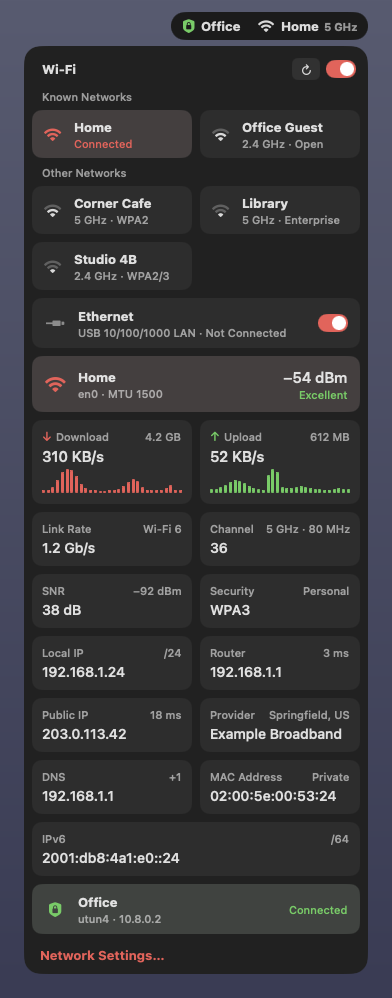
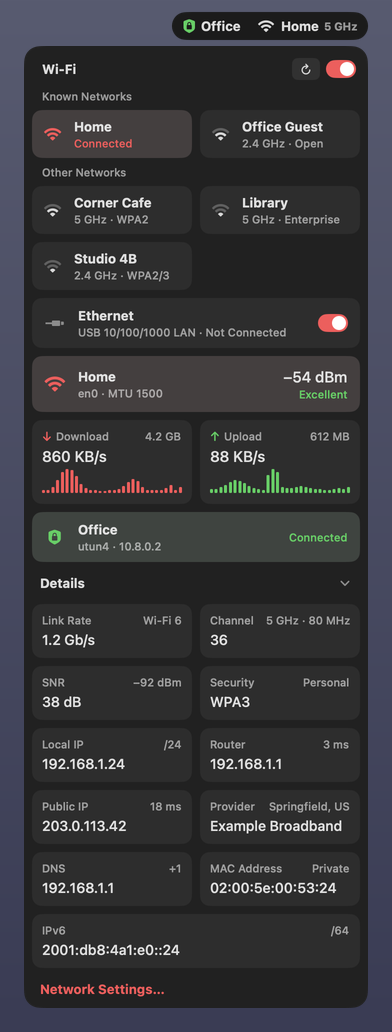
feat: the network details behind a disclosure, also for Lua
The network popup was one long column of tiles. The connection, the
traffic graphs and the VPN stay in sight; under them a Details row,
closed until clicked, holds the Wi-Fi link (rate, channel,
signal-to-noise, security) and the addresses (local and public IP,
router, provider, DNS, MAC address, IPv6). Once open it stays open, in
the next popups too, until a reload. The VPN now comes before it.

The ping to the router and the curl to ipinfo.io only feed the tiles
under it: the ping runs while the details are open, the curl once in
each popup they're open in. A popup with them closed runs no process.

Rx::disclosure is that row as a component: a title with a chevron that
points down while open, and the children under it then; the widget
keeps the flag and flips it on the action. Lua widgets get the same as
rb.ui.disclosure { "Title", open = ..., on_click = ..., children }.

The README screenshot of the network popup shows the details open.

Tried on the test bar with made-up data, in Italian and English:
closed, open, closed again, still open in the next popup, and the Lua
component opened and closed.

diff --git a/src/widgets/network.rs b/src/widgets/network.rs
@@ -10,18 +10,20 @@
 //!   Good from −67, Fair from −75, else Weak), on Ethernet the link speed.
 //! - Download and upload: the speed now, the last 30 seconds as bars, and the total of the
 //!   interface since it came up.
-//! - On Wi-Fi: the link rate with the Wi-Fi generation, the channel with band and width, the
-//!   signal-to-noise ratio with the noise, the security.
-//! - Local IP (with the prefix), router (with its ping), public IP (with the latency to the
-//!   internet), provider (with city and country), DNS, MAC address (private or not) and IPv6; a
-//!   click copies an address, and the tile says Copied.
 //! - The VPN, with its interface and address.
+//! - Details, closed until clicked (and then kept open until a reload):
+//!   - On Wi-Fi: the link rate with the Wi-Fi generation, the channel with band and width, the
+//!     signal-to-noise ratio with the noise, the security.
+//!   - Local IP (with the prefix), router (with its ping), public IP (with the latency to the
+//!     internet), provider (with city and country), DNS, MAC address (private or not) and IPv6;
+//!     a click copies an address, and the tile says Copied.
 //!
 //! The state comes from the System Configuration store, which tells when it changes, and from
 //! CoreWLAN. Only while the popup is open, and in-process: every second the counters of the
-//! interface (the routing sysctl) and the Wi-Fi link (CoreWLAN), every 5 seconds a ping to the
-//! router (ICMP, without privileges). The public IP, its provider and the latency to the internet
-//! (the TCP handshake of that request) come from one `curl` to ipinfo.io when the popup opens.
+//! interface (the routing sysctl) and the Wi-Fi link (CoreWLAN, for the signal too), and while the
+//! details are open every 5 seconds a ping to the router (ICMP, without privileges). The public
+//! IP, its provider and the latency to the internet (the TCP handshake of that request) come from
+//! one `curl` to ipinfo.io when the details are first open in a popup.
 //! The network name comes from the last scan record the store keeps, as macOS gives it to CoreWLAN
 //! only with the Location permission, which the list of nearby networks needs: RustyBar asks for
 //! it the first time the popup opens.
@@ -58,6 +60,8 @@ const STAT: f64 = 54.0;
 /// The VPN and the wired services.
 const LINE: f64 = 50.0;
 const NEARBY: f64 = 48.0;
+/// The row that opens the details.
+const DISCLOSURE: f64 = 26.0;
 /// Seconds of traffic in the graphs, a bar each.
 const BARS: usize = 30;
 const GRAPH: f64 = 24.0;
@@ -226,6 +230,10 @@ pub struct Network {
     /// The public side and the connection it's of.
     public: Option<(Public, String)>,
     fetching: bool,
+    /// The `ticking` of the popup it was last fetched in: once each, when the details are open.
+    fetched: u64,
+    /// The link and the addresses are shown.
+    details: bool,
     scanning: bool,
     /// The network being joined, and since when: one at a time, for at most 2 minutes.
     joining: Option<(String, f64)>,
@@ -394,6 +402,8 @@ impl Network {
             location: None,
             public: None,
             fetching: false,
+            fetched: 0,
+            details: false,
             scanning: false,
             joining: None,
             failed: None,
@@ -467,6 +477,7 @@ impl Network {
         if self.fetching {
             return;
         }
+        self.fetched = self.ticking;
         if let Some(mock) = &self.mock {
             self.public = Some((mock.public.clone(), mock.state.key()));
             return;
@@ -481,7 +492,8 @@ impl Network {
         });
     }
 
-    /// Every second while the popup is open: the speeds and the Wi-Fi link; every 5, the ping.
+    /// Every second while the popup is open: the speeds and the Wi-Fi link; every 5, the ping, while
+    /// the details are open.
     fn tick(&mut self, ticking: u64, cx: &mut Cx) {
         if ticking != self.ticking || !cx.popup_open {
             return;
@@ -502,7 +514,7 @@ impl Network {
             next(cx);
             return;
         };
-        if self.ticks.is_multiple_of(5) {
+        if self.details && self.ticks.is_multiple_of(5) {
             self.ping_router(cx);
         }
         self.ticks += 1;
@@ -552,7 +564,8 @@ impl Network {
 
     fn ping_router(&mut self, cx: &mut Cx) {
         let Some(router) = self.state.as_ref().and_then(|s| s.router.clone()) else { return };
-        if self.pinging {
+        // The made-up router is pinged by no one: its time comes with the made-up data
+        if self.pinging || self.mock.is_some() {
             return;
         }
         self.pinging = true;
@@ -1012,25 +1025,12 @@ impl Widget for Network {
     fn popup(&self, rx: &Rx) -> Option<Node> {
         let th = rx.theme;
         let s = self.state.as_ref()?;
-        // The switches and the networks on top, the metrics under them
+        // The switches and the networks on top, the metrics under them, then the details
         let mut metrics = vec![self.header(rx, s)];
         let mut used = HEADER + GAP;
-        let grid = |tiles: Vec<Node>, key: &str, used: &mut f64| {
-            *used += tiles.len().div_ceil(2) as f64 * (STAT + GAP);
-            Node::row(tiles).columns(2).gap(GAP).key(key)
-        };
         if s.primary.is_some() {
             metrics.push(Node::row(vec![self.traffic(rx, true), self.traffic(rx, false)]).gap(GAP).key("traffic"));
             used += TRAFFIC + GAP;
-            if let Some(l) = self.link.as_ref().filter(|_| s.on_wifi()) {
-                metrics.push(grid(self.link_tiles(rx, l), "link", &mut used));
-            }
-            let (tiles, ipv6) = self.address_tiles(rx, s);
-            metrics.push(grid(tiles, "addresses", &mut used));
-            if let Some(ipv6) = ipv6 {
-                metrics.push(ipv6);
-                used += STAT + GAP;
-            }
         }
         if let Some(vpn) = &s.vpn {
             let detail = if self.copied.as_deref() == Some("vpn") {
@@ -1044,6 +1044,26 @@ impl Widget for Network {
             let room = crate::gfx::measure_text(connected, &th.small_font()).width;
             metrics.push(line(rx, "lock.shield.fill", th.green, vpn, detail, (state, room), true).click(rx.action("copy:vpn")).key("vpn"));
             used += LINE + GAP;
+        }
+        if s.primary.is_some() {
+            let grid = |tiles: Vec<Node>, key: &str, used: &mut f64| {
+                *used += tiles.len().div_ceil(2) as f64 * (STAT + GAP);
+                Node::row(tiles).columns(2).gap(GAP).key(key)
+            };
+            let mut details = Vec::new();
+            if self.details {
+                if let Some(l) = self.link.as_ref().filter(|_| s.on_wifi()) {
+                    details.push(grid(self.link_tiles(rx, l), "link", &mut used));
+                }
+                let (tiles, ipv6) = self.address_tiles(rx, s);
+                details.push(grid(tiles, "addresses", &mut used));
+                if let Some(ipv6) = ipv6 {
+                    details.push(ipv6);
+                    used += STAT + GAP;
+                }
+            }
+            metrics.push(rx.disclosure(t("Dettagli", "Details"), self.details, rx.action("details"), details).gap(GAP).key("details"));
+            used += DISCLOSURE + GAP;
         }
         let mut wired = Vec::new();
         for (i, w) in s.wired.iter().enumerate() {
@@ -1089,6 +1109,17 @@ impl Widget for Network {
                 self.scan(cx);
                 cx.redraw();
             }
+            "details" => {
+                self.details = !self.details;
+                // What only the details show: the public side once in each popup, the ping now
+                if self.details {
+                    if self.fetched != self.ticking {
+                        self.fetch_public(cx);
+                    }
+                    self.ping_router(cx);
+                }
+                cx.redraw();
+            }
             "location" => {
                 cx.close_popup();
                 crate::runtime::open("x-apple.systempreferences:com.apple.preference.security?Privacy_LocationServices");
@@ -1114,9 +1145,13 @@ impl Widget for Network {
         match event {
             Event::Wake => self.read(cx),
             Event::PopupOpened => {
+                self.ticking += 1;
+                self.ticks = 0;
                 self.failed = None;
                 self.read(cx);
-                self.fetch_public(cx);
+                if self.details {
+                    self.fetch_public(cx);
+                }
                 if self.state.as_ref().is_some_and(|s| s.wifi_device.is_some() && s.wifi_power) {
                     self.ask_location(cx);
                 }
@@ -1127,8 +1162,6 @@ impl Widget for Network {
                         self.push(down, up);
                     }
                 }
-                self.ticking += 1;
-                self.ticks = 0;
                 self.tick(self.ticking, cx);
             }
             Event::PopupClosed => {

diff --git a/src/widgets/mod.rs b/src/widgets/mod.rs
@@ -10,7 +10,7 @@ use crate::fit::Form;
 use crate::runtime::{self, Timer};
 use crate::theme::Theme;
 use crate::gfx::Weight;
-use crate::ui::{Action, Align, Kind, Node};
+use crate::ui::{Action, Align, Justify, Kind, Node};
 
 pub mod aerospace;
 pub mod apple;
@@ -126,6 +126,21 @@ impl<'a> Rx<'a> {
         }
         Node::row(row).padding(8.0, 8.0, 4.0, 8.0).align(Align::Center)
     }
+    /// A row that shows `children` under it only while `open`, with a chevron that points down
+    /// then: the widget keeps `open` and flips it on `action`. A column, with the gap to set.
+    pub fn disclosure(&self, title: &str, open: bool, action: Action, children: Vec<Node>) -> Node {
+        let t = self.theme;
+        let chevron = Node::row(vec![Node::symbol(if open { "chevron.down" } else { "chevron.right" }, 10.0, Weight::Bold, t.subtext).key("symbol")])
+            .width(14.0)
+            .justify(Justify::Center)
+            .key("chevron");
+        let mut column = vec![self.row_button(vec![Node::text(title, t.font(), t.text).key("title")], vec![chevron], action).key("header")];
+        if open {
+            column.extend(children);
+        }
+        Node::column(column).gap(2.0)
+    }
+
 
     pub fn detail(&self, text: &str) -> Node {
         Node::text(text, self.theme.small_font(), self.theme.subtext).key(format!("d-{text}")).padding(0.0, 8.0, 2.0, 8.0)

diff --git a/README.md b/README.md
@@ -22,7 +22,7 @@ processes a minute.
 | `battery` | The charge, with an icon for its state | A dashboard: the state with a bar of the charge that marks the limit, the Charge Limit (macOS 26.4+) as a slider with its steps and Charge to Full Now; tiles for the maximum capacity and the condition, the cycles against the ones the battery is made for, the temperature and the power the Mac draws; the adapter while one is plugged in; Battery settings |
 | `clock` | Date and time in the language and format of your Mac | A calendar that scrolls through the months without end; a click on a day opens it in Calendar |
 | `audio` | The output and the input in use, with the battery of Bluetooth devices and a slider with the volume of each (`sliders = false` hides them), the first thing to go when the bar has no room; the Mac's own speakers and microphone, or both halves of a headset, show as one | A dashboard: the output and input volume, each with its level and a slider; tiles for the devices to switch to and for the paired Bluetooth headphones and speakers to connect or disconnect |
-| `network` | The VPN, then the Wi-Fi network and its band, or Ethernet; the icon turns yellow or red when there's no connection | A dashboard: on top Wi-Fi on and off with the nearby networks to join as tiles (the password is asked once and kept in the keychain) and the wired services with a switch; under them the connection with its signal (or Ethernet's link speed), download and upload with the last 30 seconds as a graph, on Wi-Fi the link rate and generation, channel, band and width, signal-to-noise and security, then local and public IP, router with its ping, provider, DNS, MAC address and IPv6, each copied with a click, and the VPN |
+| `network` | The VPN, then the Wi-Fi network and its band, or Ethernet; the icon turns yellow or red when there's no connection | A dashboard: on top Wi-Fi on and off with the nearby networks to join as tiles (the password is asked once and kept in the keychain) and the wired services with a switch; under them the connection with its signal (or Ethernet's link speed), download and upload with the last 30 seconds as a graph and the VPN; then Details, closed until clicked: on Wi-Fi the link rate and generation, channel, band and width, signal-to-noise and security, then local and public IP, router with its ping, provider, DNS, MAC address and IPv6, each copied with a click |
 | `events` | Today's next event from the Mac's calendars: its time, colored as it gets close, the title and a countdown | Today's events; a click joins the Google Meet call or shows the event in Calendar |
 | `notifications` | Two counts: the Dock badges of the apps you choose and new RustyBar crash reports (green), Homebrew updates (red) | The badged apps and crash reports to open, the packages to update one by one or all at once |
 | `home` | [Home Assistant](https://www.home-assistant.io): its logo with how many devices are on, and the 3D printer's progress while it prints | A dashboard of tiles: lights and plugs (with brightness), blinds, climate (modes and − target +), vacuum, the 3D printer, scripts and scenes as chips |
@@ -41,7 +41,7 @@ Each widget with its popup, on made-up data (see below):
 <td align="center" valign="top"><img src="docs/screenshots/clock.png" width="290" alt="A calendar that scrolls through the months"><br><code>clock</code></td>
 </tr>
 <tr>
-<td align="center" valign="top"><img src="docs/screenshots/network.png" width="392" alt="The Wi-Fi networks to join and Ethernet, then the connection with its signal, download and upload graphs, the link, the addresses and the VPN"><br><code>network</code></td>
+<td align="center" valign="top"><img src="docs/screenshots/network.png" width="392" alt="The Wi-Fi networks to join and Ethernet, then the connection with its signal, download and upload graphs and the VPN, and the details open: the link and the addresses"><br><code>network</code></td>
 <td align="center" valign="top"><img src="docs/screenshots/docker.png" width="392" alt="A dashboard of Docker containers by Compose project, with start, stop, restart and remove buttons, and the disk usage to clean up"><br><code>docker</code></td>
 </tr>
 <tr>
@@ -64,15 +64,15 @@ listeners, the network from the System Configuration store, the calendars from E
 Assistant from its WebSocket API, Docker from the `/events` stream of its Engine API, the clock
 from a timer aligned to the minute. What has no event is read in-process on a timer: CPU, GPU and
 memory every 2 seconds, the Dock badges every 2 seconds (through Accessibility), and only while
-their popups are open the network's traffic and Wi-Fi link every second and a ping to the router
-every 5, the battery's temperature and power every 2 seconds, and the disks every 10. The bar is
-redrawn only when a value changes.
+their popups are open the network's traffic and Wi-Fi link every second and, with its details
+open, a ping to the router every 5, the battery's temperature and power every 2 seconds, and the
+disks every 10. The bar is redrawn only when a value changes.
 
 A few things still run a process: `brew outdated` every hour and on wake (only with `brewfile` or
 `brew = true`), `system_profiler` for AirPods batteries and paired devices when the audio popup
 opens and every 2 minutes while a Bluetooth device is in use, `system_profiler` for the battery
 health at most once a day, when the battery popup opens, `curl` for the public IP and its provider
-(from ipinfo.io) when the network popup opens, and Claude Code (`claude auth status` and
+(from ipinfo.io) when the network popup's details open, and Claude Code (`claude auth status` and
 `claude -p`, for each account) every 5 minutes, on wake, when the Claude popup opens and with ↻: it's the
 only way to the plan's numbers. It asks for them without sending a message, so it doesn't use the
 plan. The keychain is read and written through `security`, once for each secret. While the
@@ -110,7 +110,7 @@ RustyBar asks for each permission the first time a widget needs it:
 | Bluetooth | `audio` | Connecting and disconnecting headphones and speakers (on the first click) |
 | Accessibility | `notifications` | The Dock badges (at start, only with `apps`); without it a yellow `!` shows, whose popup asks again, and the rest of the widget works |
 | Automation | `apple`, `clock` | Restart, Shut Down and Log Out; showing a day in Calendar |
-| Local Network | `home`, `network` | Reaching a Home Assistant server on your network (at start); the ping to the router (when the network popup opens), without which the rest works |
+| Local Network | `home`, `network` | Reaching a Home Assistant server on your network (at start); the ping to the router (when the network popup's details open), without which the rest works |
 
 To keep the macOS menu bar out of the way, turn on *Automatically hide and show the menu bar* in
 System Settings → Control Center.
@@ -295,7 +295,8 @@ rb.widget {
 - **Components** (`rb.ui.*`): `row`, `column`, `grid` (`columns = n`), `pill`, `button`, `box`,
   `text`, `icon` (an SF Symbol), `app` (an app icon by bundle id), `image`, `slider`, `progress`,
   `toggle`, `scroll` (`max_height`), `skeleton`, `spacer`, `divider`, `section`, `detail`,
-  `month`.
+  `disclosure` (a title whose children show only with `open = true`; its `on_click` flips your
+  flag), `month`.
 - **Options**: `gap`, `pad`, `width`, `height`, `min_width`, `max_width`, `grow`, `radius`,
   `background`, `border`, `opacity`, `align`, `justify`, `key`, `hover`, `selected` (a sliding
   highlight behind the child with that key), colors by palette name (`"primary"`, `"green@0.5"`)

diff --git a/CLAUDE.md b/CLAUDE.md
@@ -85,9 +85,9 @@ prima `export PATH="/opt/homebrew/opt/rustup/bin:$PATH"`.
   NSWorkspace…) e niente processi lanciati a regime: si legge in-process. Ciò che non ha eventi va
   su un timer in-process e ridisegna solo se il valore cambia. Un processo esterno solo dove non c'è
   alternativa, e documentato nel README (oggi: `brew` ogni ora, `system_profiler` con Bluetooth
-  attivo, `curl` a ipinfo.io all'apertura del popup di rete, `claude` ogni 5 minuti, `security`
-  una volta per segreto, la finestra delle impostazioni finché è aperta, `borders` quando se ne
-  cambia un'opzione).
+  attivo, `curl` a ipinfo.io all'apertura dei dettagli del popup di rete, `claude` ogni 5 minuti,
+  `security` una volta per segreto, la finestra delle impostazioni finché è aperta, `borders` quando
+  se ne cambia un'opzione).
 - AppKit e i layer solo sul main thread; il lavoro bloccante in `cx.background` o in un thread con
   `handle.alive()`.
 - Ogni widget che legge dati personali ha i dati finti: `crate::mock::load::<T>("<widget>")`, un file
@@ -179,16 +179,19 @@ prima `export PATH="/opt/homebrew/opt/rustup/bin:$PATH"`.
 - `network` a plancia: in cima Wi-Fi (↻ e interruttore) con le reti vicine a riquadri e i servizi
   cablati con l'interruttore, sotto le metriche: la connessione col segnale (o la velocità di
   Ethernet), download e upload con gli ultimi 30 s a barre (contatori a 64 bit di `NET_RT_IFLIST2`),
-  il link Wi-Fi (velocità e generazione, canale con banda e larghezza, SNR, sicurezza: CoreWLAN,
-  senza la posizione), gli indirizzi che un clic copia (IP locale col prefisso, router col ping ICMP
-  senza privilegi, IP pubblico con la latenza e il provider da ipinfo.io, DNS, MAC privato o no,
-  IPv6), la VPN. Contatori, link e ping (ogni 5 s) solo a popup aperto, ogni secondo. Provata coi
+  la VPN, poi i Dettagli, chiusi finché non si cliccano e poi aperti fino al reload
+  (`Rx::disclosure`, in Lua `rb.ui.disclosure`): il link Wi-Fi (velocità e generazione, canale con
+  banda e larghezza, SNR, sicurezza: CoreWLAN, senza la posizione), gli indirizzi che un clic copia
+  (IP locale col prefisso, router col ping ICMP senza privilegi, IP pubblico con la latenza e il
+  provider da ipinfo.io, DNS, MAC privato o no, IPv6). Contatori e link solo a popup aperto, ogni
+  secondo; ping (ogni 5 s) e `curl` (una volta per popup) solo coi Dettagli aperti. Dettagli e
+  `rb.ui.disclosure` provati coi dati finti sulla barra di prova (clic, riapertura). Provata coi
   dati finti (it/en) e dal vero, sulla barra di prova e su quella vera, su Ethernet; il ping al
   router lì non risponde (`EHOSTUNREACH` sulla barra di prova): quasi certamente il permesso Rete
   locale, che RustyBar non ha (`home` va in HTTPS, non lo prova). Il ping è provato su loopback nei
   test. Con tutti i widget: a riposo ~20 MB, ~0,1% CPU; popup aperto ~24 MB, ~0,6%
-  CPU; 0 processi (un `curl` all'apertura). Da provare dal vero: il link Wi-Fi con la Wi-Fi come
-  connessione, il ping sulla barra vera, la copia negli appunti.
+  CPU; 0 processi (un `curl` all'apertura dei Dettagli). Da provare dal vero: il link Wi-Fi con la
+  Wi-Fi come connessione, il ping sulla barra vera, la copia negli appunti.
 - `battery` a plancia: in cima lo stato con la barra della carica (colore dell'icona, segno al
   limite), il limite di carica come slider a scatti (`Rx::steps`, `labels` di `Kind::Slider`, anche
   da Lua: si ferma ai passi, pallini sui passi dopo, etichette 80–100% sotto; disattivato mentre
